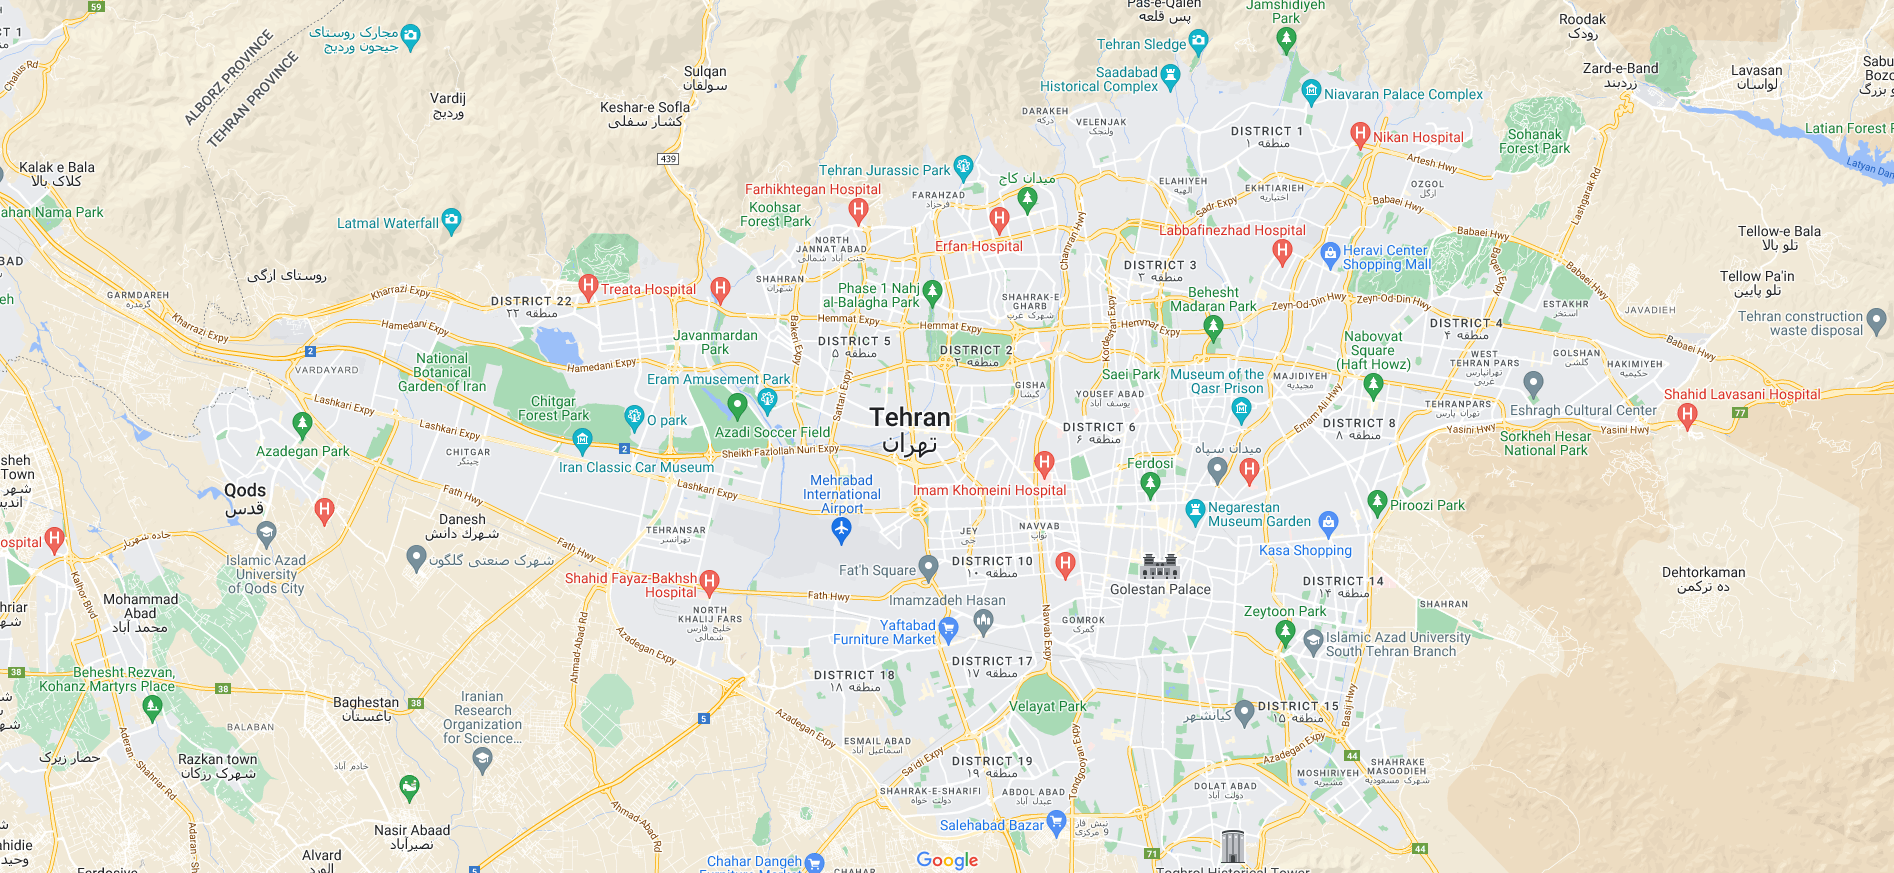
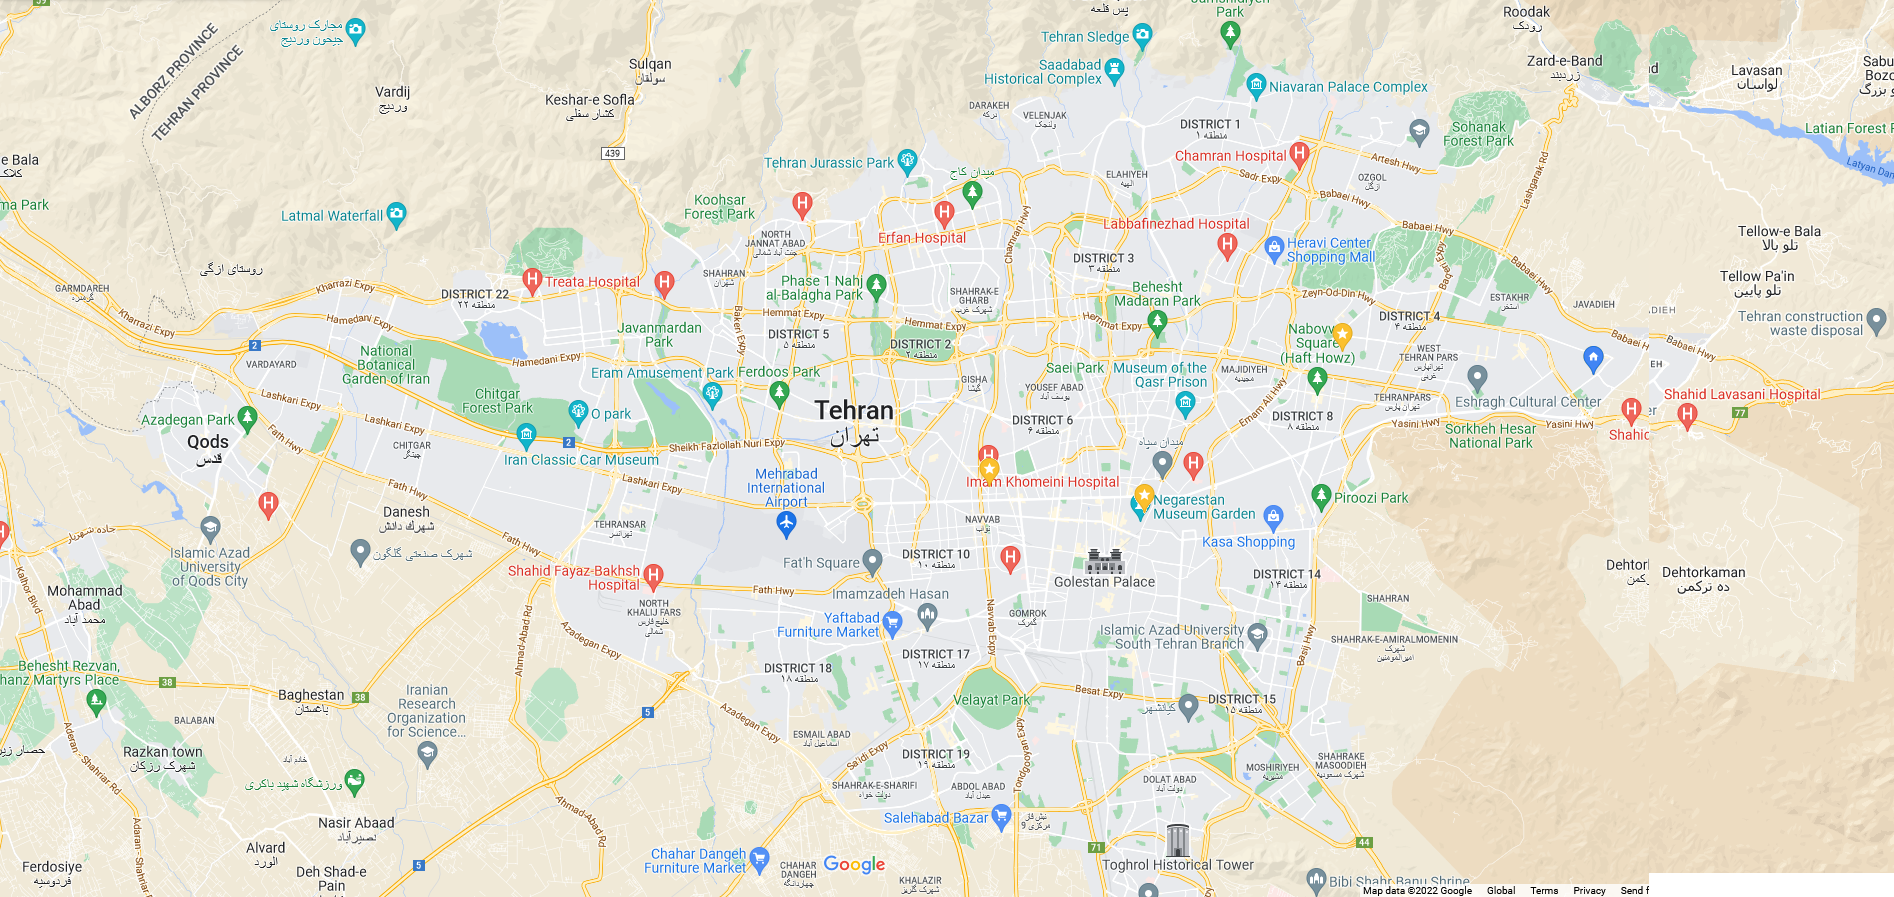
Change transportation map layout

diff --git a/frontend404/src/views/Transportation/transportation.js b/frontend404/src/views/Transportation/transportation.js
@@ -1,22 +1,12 @@
-// design #1
-
 import { theme } from "../../theme";
 import Box from "@mui/material/Box";
 import Card from "@mui/material/Card";
 import Stack from "@mui/material/Stack";
 import Button from "@mui/material/Button";
-import Select from "@mui/material/Select";
-import Divider from "@mui/material/Divider";
-import MenuItem from "@mui/material/MenuItem";
-import Checkbox from "@mui/material/Checkbox";
 import Container from "@mui/material/Container";
 import TextField from "@mui/material/TextField";
-import InputLabel from "@mui/material/InputLabel";
 import Typography from "@mui/material/Typography";
-import Pagination from "@mui/material/Pagination";
-import FormControlLabel from "@mui/material/FormControlLabel";
 import InputAdornment from "@mui/material/InputAdornment";
-import FormControl from "@mui/material/FormControl";
 import AddIcon from "@mui/icons-material/Add";
 import SearchIcon from "@mui/icons-material/Search";
 import { DashboardLayout } from "../../components/dashboard-layout";
@@ -24,7 +14,7 @@ import { ThemeProvider } from "@mui/material/styles";
 import CssBaseline from "@mui/material/CssBaseline";
 import { useEffect, useState } from "react";
 import ServiceCard from "../../components/transportation/serviceCard";
-import mapPlaceholder from "../../images/map-placeholder-1.png";
+import mapPlaceholder from "../../images/map-placeholder.png";
 import axios from "axios";
 
 const ViewTransportationServicesView = () => {
@@ -60,6 +50,8 @@ const ViewTransportationServicesView = () => {
                 component="main"
                 sx={{
                     flexGrow: 1,
+                    display: "flex",
+                    flexDirection: "row"
                 }}
             >
                 <Container maxWidth={false} sx={{
@@ -118,19 +110,23 @@ const ViewTransportationServicesView = () => {
                                     }
                                 </Stack>
                             </Stack>
-                            <Box sx={{
-                                flexGrow: 1,
-                                maxWidth: "auto",
-                                bgcolor: "#dddddd",
-                            }}>
-                                <img
-                                    styles={{width: "100%", height: "100%"}}
-                                    src={mapPlaceholder} 
-                                />
-                            </Box>
                         </Stack>
                     </Stack>
                 </Container>
+                <Box sx={{
+                    flexGrow: 1,
+                    maxWidth: "auto",
+                    height: "885px",
+                }}>
+                    <img
+                        style={{
+                            width: "760px",
+                            height: "100%",
+                            objectFit: "none",
+                        }}
+                        src={mapPlaceholder} 
+                    />
+                </Box>
             </Box>
         </ThemeProvider>
     )

diff --git a/frontend404/src/views/Transportation/addService.js b/frontend404/src/views/Transportation/addService.js
@@ -17,7 +17,7 @@ import { DashboardLayout } from '../../components/dashboard-layout';
 import { ThemeProvider } from '@mui/material/styles';
 import CssBaseline from '@mui/material/CssBaseline';
 import { useState } from 'react';
-import mapPlaceholder from '../../images/map-placeholder-2.png';
+import mapPlaceholder from '../../images/map-placeholder.png';
 import { useHistory } from "react-router-dom";
 import axios from "axios";
 
@@ -152,6 +152,8 @@ const AddTransportationServiceView = () => {
                 component="main"
                 sx={{
                     flexGrow: 1,
+                    display: "flex",
+                    flexDirection: "row"
                 }}
             >
                 <Container maxWidth={false} sx={{
@@ -314,26 +316,23 @@ const AddTransportationServiceView = () => {
                                     </Stack>
                                 </Stack>
                             </Card>
-                            <Box sx={{
-                                // width: '100%',
-                                // width: 600,
-                                flexGrow: 1,
-                                maxWidth: 'auto',
-                                // height: 320,
-                                height: '100%',
-                                bgcolor: '#dddddd',
-                                // position: 'sticky',
-                                // top: 88,
-                                zIndex: -1
-                            }}>
-                                <img
-                                    // styles={{width: 'auto', height: 'auto'}}
-                                    src={mapPlaceholder}
-                                />
-                            </Box>
                         </Stack>
                     </Stack>
                 </Container>
+                <Box sx={{
+                    flexGrow: 1,
+                    maxWidth: "auto",
+                    height: "880px",
+                }}>
+                    <img
+                        style={{
+                            width: "700px",
+                            height: "100%",
+                            objectFit: "none",
+                        }}
+                        src={mapPlaceholder} 
+                    />
+                </Box>
             </Box>
         </ThemeProvider>
     )
